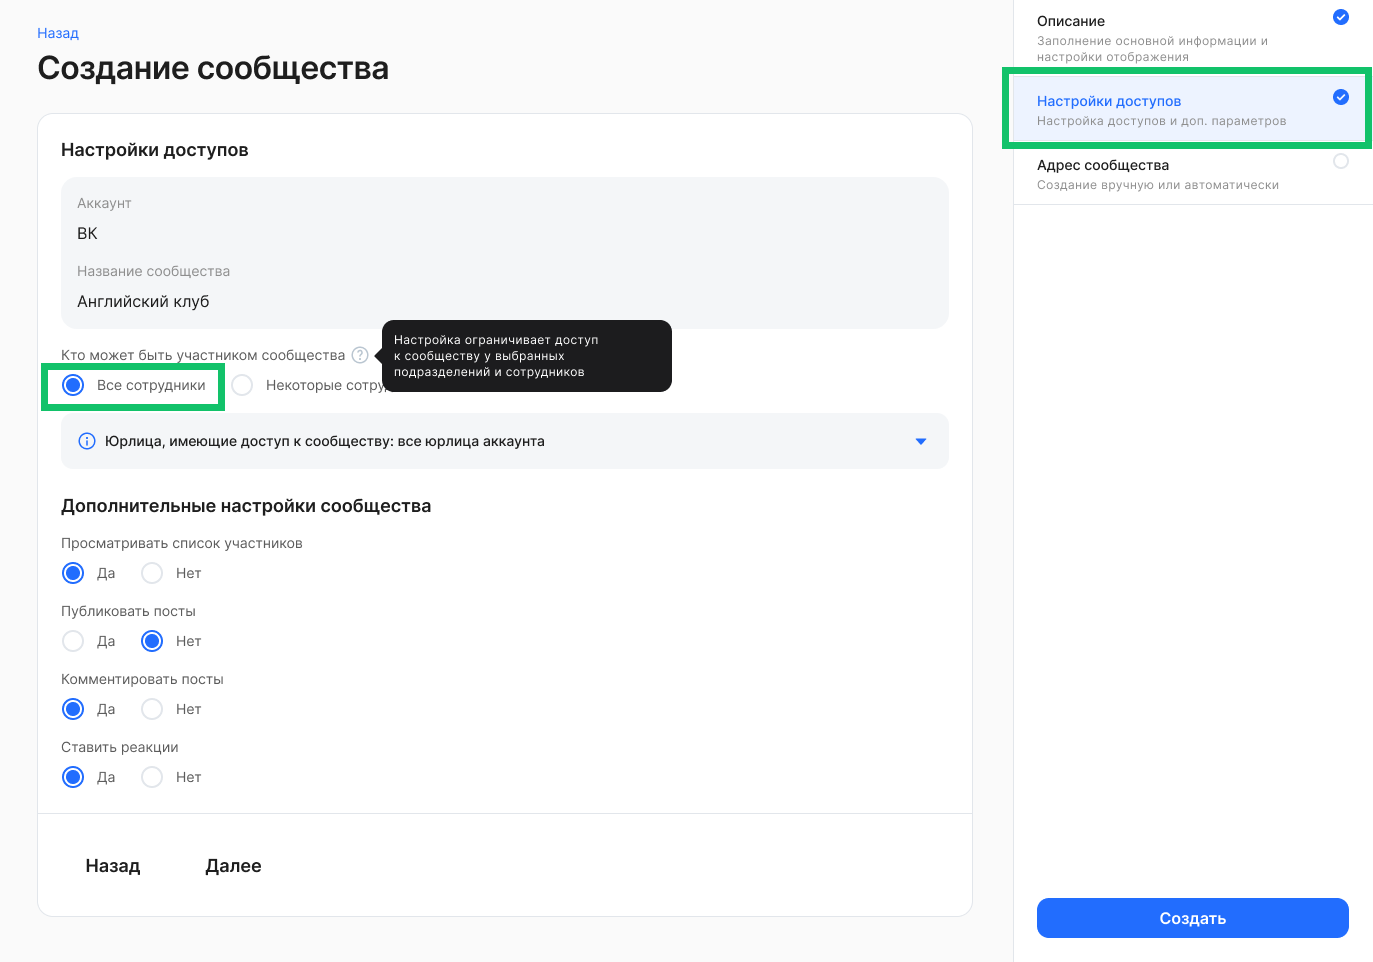
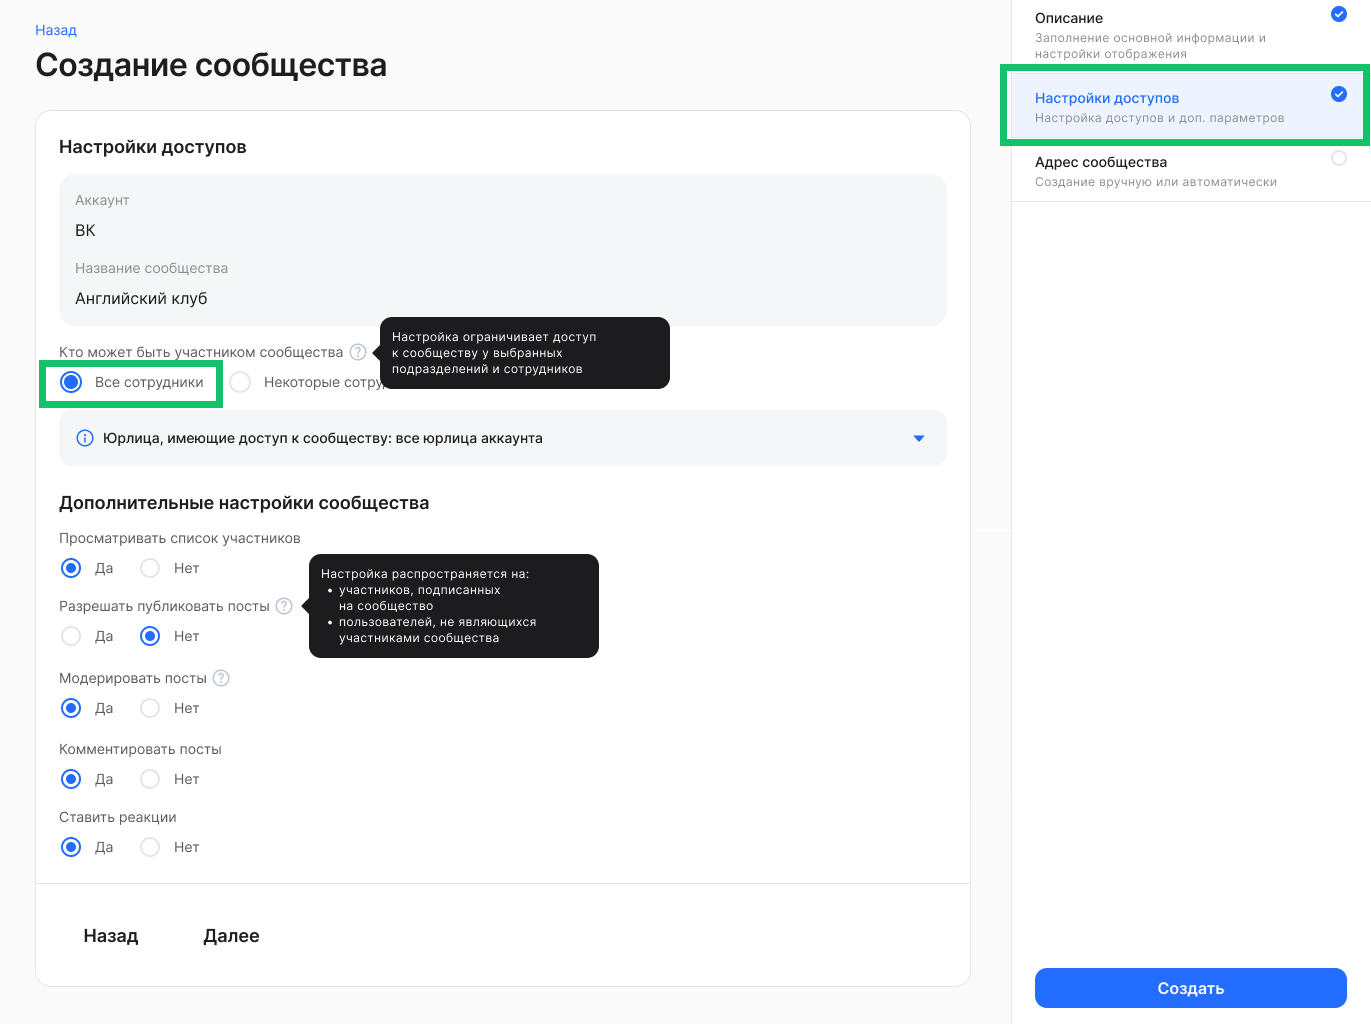
Release 2026-05-19 19:03:22

diff --git a/docs/ru/hr/portal/communities/management/create/create.md b/docs/ru/hr/portal/communities/management/create/create.md
@@ -6,7 +6,7 @@
 
 ![](./assets/News-feed-17.png)
 
-![](./assets/Creatingsurvey-5.png)
+![](./assets/Creating-survey-1.png)
 
 В блоке **Основная информация** заполните следующие поля:
 
@@ -26,6 +26,17 @@
 
 ![](./assets/Cropping_cover_modal-2.png)
 
+* **Обложка**. Необязательное поле. Чтобы загрузить обложку, нажмите кнопку ![](./assets/skrepka.png "inline"). Далее выделите нужную область загружаемого изображения и сохраните изменения. Если обложка не загружена, то система присваивает стандартное изображение (серый фон).
+
+<info>
+
+Правила загрузки аватара: 
+- Допустимые форматы изображений: JPEG, PNG, HEIF, WEBP, DNG, TIFF 
+- Изображение не должно превышать 10 МБ. 
+- Минимальный размер изображения 1296×100 пикселей. 
+
+</info>
+
 * **Тип сообщества**. Обязательное поле. Выберите один тип из выпадающего списка:  
   * Открытое: доступно всем, контент виден всем.  
   * Закрытое: вступление по заявке, контент доступен только для участников.  
@@ -39,10 +50,11 @@
 На странице **Настройки доступов** укажите параметры для следующих настроек:
 
 1. **Кто может быть участником сообщества**. Возможные варианты настройки: **Все сотрудники** или **Некоторые сотрудники**. Настройка ограничивает доступ к сообществу у выбранных подразделений и сотрудников.  
-2. **Просматривать список участников**.  
-3. **Публиковать посты**.  
-4. **Комментировать посты**.  
-5. **Ставить реакции**.
+2. **Просматривать список участников**. При включенной настройке пользователи смогут увидеть список участников сообщества.  
+3. **Разрешать публиковать посты**. Настройка распространяется на участников, подписанных на сообщество, и пользователей, не вступивших в сообщество.  
+4. **Модерировать посты**. При включенной настройке любой пользовательский пост будет публиковаться только после предварительной модерации.
+5. **Комментировать посты**. При включенной настройке автор поста сможет разрешать комментировать пост другим пользователям.  
+6. **Ставить реакции**. При включенной настройке автор поста сможет разрешать проставлять реакции к посту другим пользователям.  
 
 ![](./assets/Creatingsurvey-3.png)
 

diff --git a/docs/ru/hr/portal/survey/work/completing/completing.md b/docs/ru/hr/portal/survey/work/completing/completing.md
@@ -92,7 +92,7 @@
 
 ![](./assets/smile.png)
 
-## Завершение прохождения опроса
+## Завершение и результаты прохождения опроса
 
 На последней форме прохождения опроса (последний раздел) пользователь может завершить прохождение опроса.
 
@@ -100,4 +100,27 @@
 
 После завершения появится информационное сообщение о завершении опроса.
 
+Если в настройках опроса администратор разрешил показывать ответы, то пользователь сможет посмотреть результаты прохождения опроса (кнопка **Смотреть результаты**).
+
 ![](./assets/Creatingsurvey-28.png)
+
+Также открыть результаты можно в пользовательском разделе **Опросы**, перейдя на страницу опроса из списка.
+
+![](./assets/Creatingsurvey-2.png)
+
+По завершении прохождения опроса пользователю доступна статистика прохождения опроса всеми пользователями на дату и время открытия просмотра аналитики.
+
+После истечения срока всего опроса пользователю станет доступна статистика прохождения опроса на дату и время завершения опроса.
+
+В результатах опроса отображается следующая информация:
+
+1. Общая информация по вопросу: вопрос, общее количество ответов на конкретный вопрос, тип вопроса, обязательность вопроса.
+2. Выделены те ответы, которые дал текущий пользователь.
+3. Если пользователь не ответил на какой-либо из вопросов, то вопрос будет отмечен как пропущенный.
+4. Если текст вопроса был изменен, отображается актуальный текст вопроса.
+5. Если текст ответа был изменен, отображается старый вариант ответа и новый. По новому варианту ведется своя аналитика. 
+
+![](./assets/Survey-analytics.png)
+
+
+

diff --git a/docs/ru/hr/portal/news/management/create/create.md b/docs/ru/hr/portal/news/management/create/create.md
@@ -60,11 +60,25 @@
 * типы файлов: PDF, DOCX, XLSX, CSV.  
 * максимальный вес одного файла 10 мегабайт.
 
-Чтобы просмотреть добавляемую новость так, как увидят её другие пользователи сервиса, нажмите на кнопку **Предпросмотр**.
+Также в новость можно добавить мини-опрос. Для этого нажмите кнопку **Создать опрос**.
 
-![](./assets/Create_news1.png)
+![](./assets/Create_news111.png)
 
-![](./assets/Preview_mode.png)
+В форме создания опроса укажите:
+- название опроса, 
+- вопрос,
+- тип ответа: один из списка, несколько из списка, текст,
+- варианты ответов (для типа ответа: один из списка, несколько из списка), лимит — 10 шт.,
+- если есть ограничение символов для ответа — минимальное и максимальное количество символов в ответе (тип ответа: текст),
+- настройку показа ответов для пользователей,
+- настройку анонимности опроса,
+- дату и время завершения опроса.
+
+![](./assets/Texteditor-3-1-171.png)
+
+Чтобы просмотреть добавляемую новость так, как увидят её другие пользователи сервиса, нажмите кнопку **Предпросмотр**.
+
+![](./assets/Preview_mode1.png)
 
 Если в просматриваемой новости найдены какие-то ошибки или недочёты, вы можете внести изменения в блок **Основная информация** и **Содержание новости**. После этого можно сохранить черновик новости по кнопке **Сохранить как черновик** или перейти к настройкам публикации по кнопке **Далее**.
 
